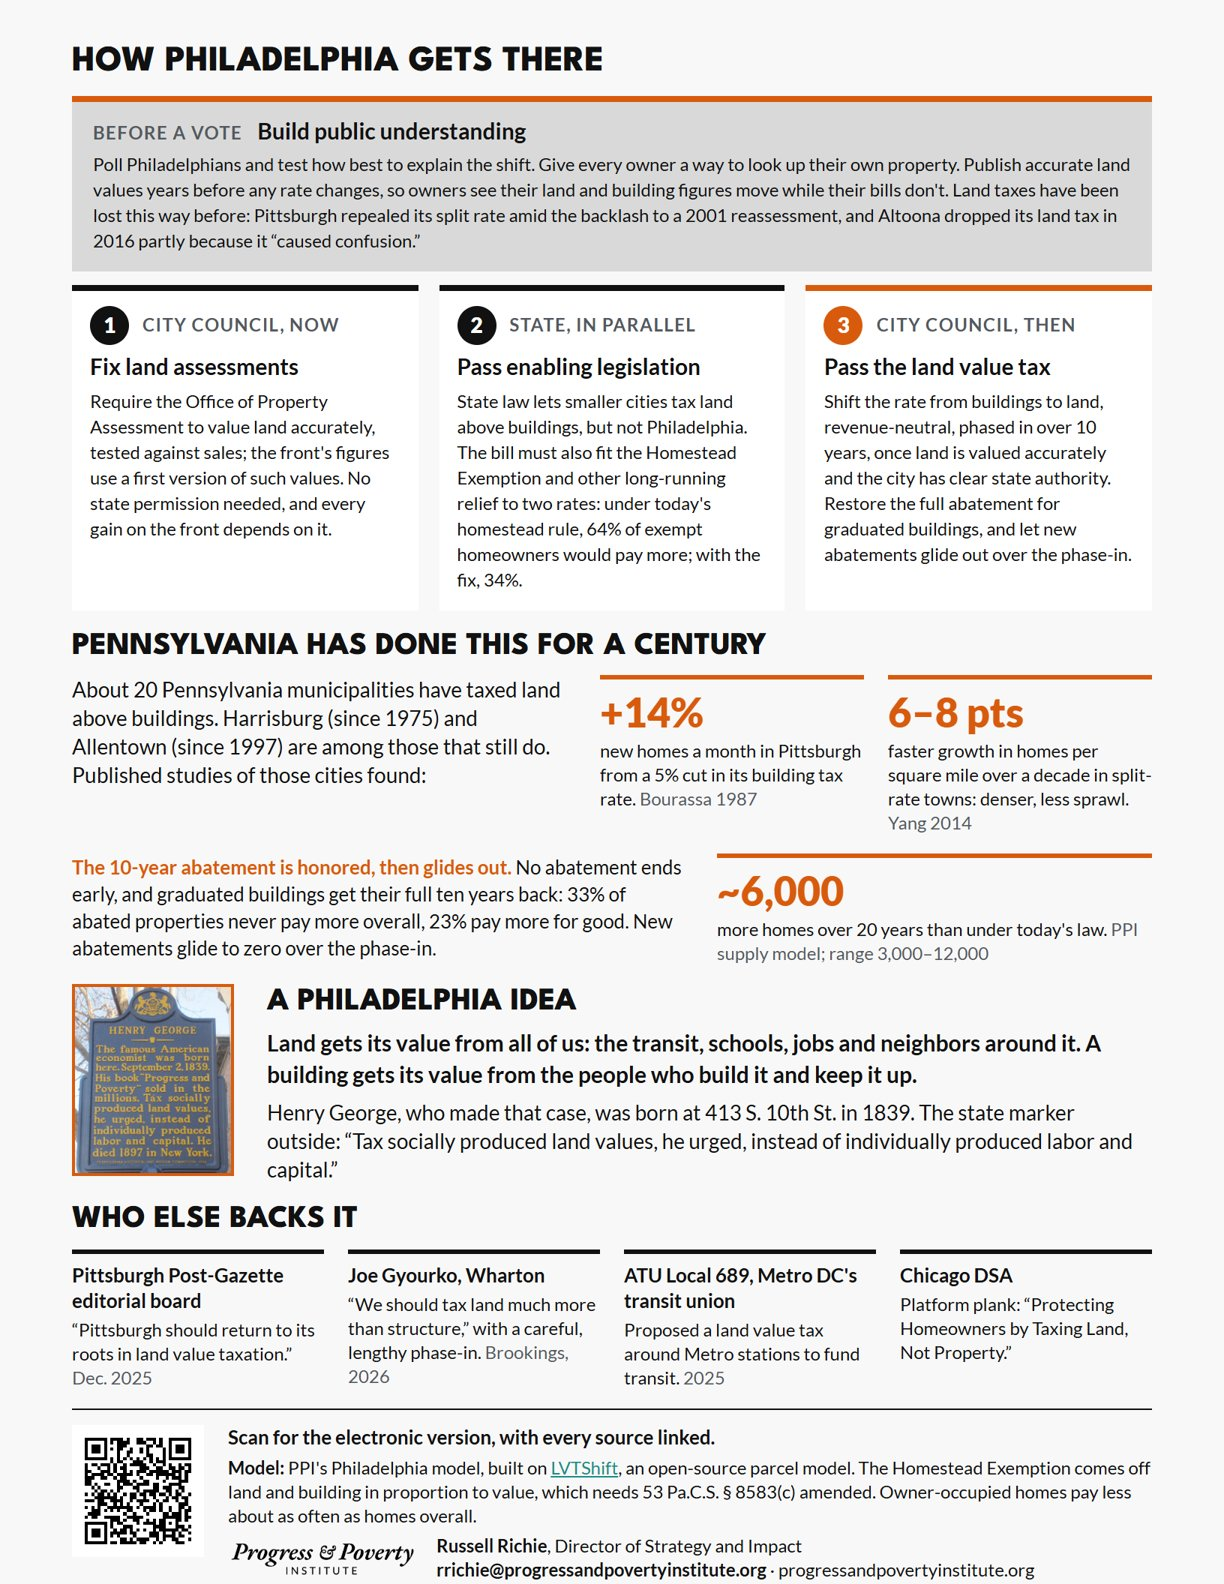
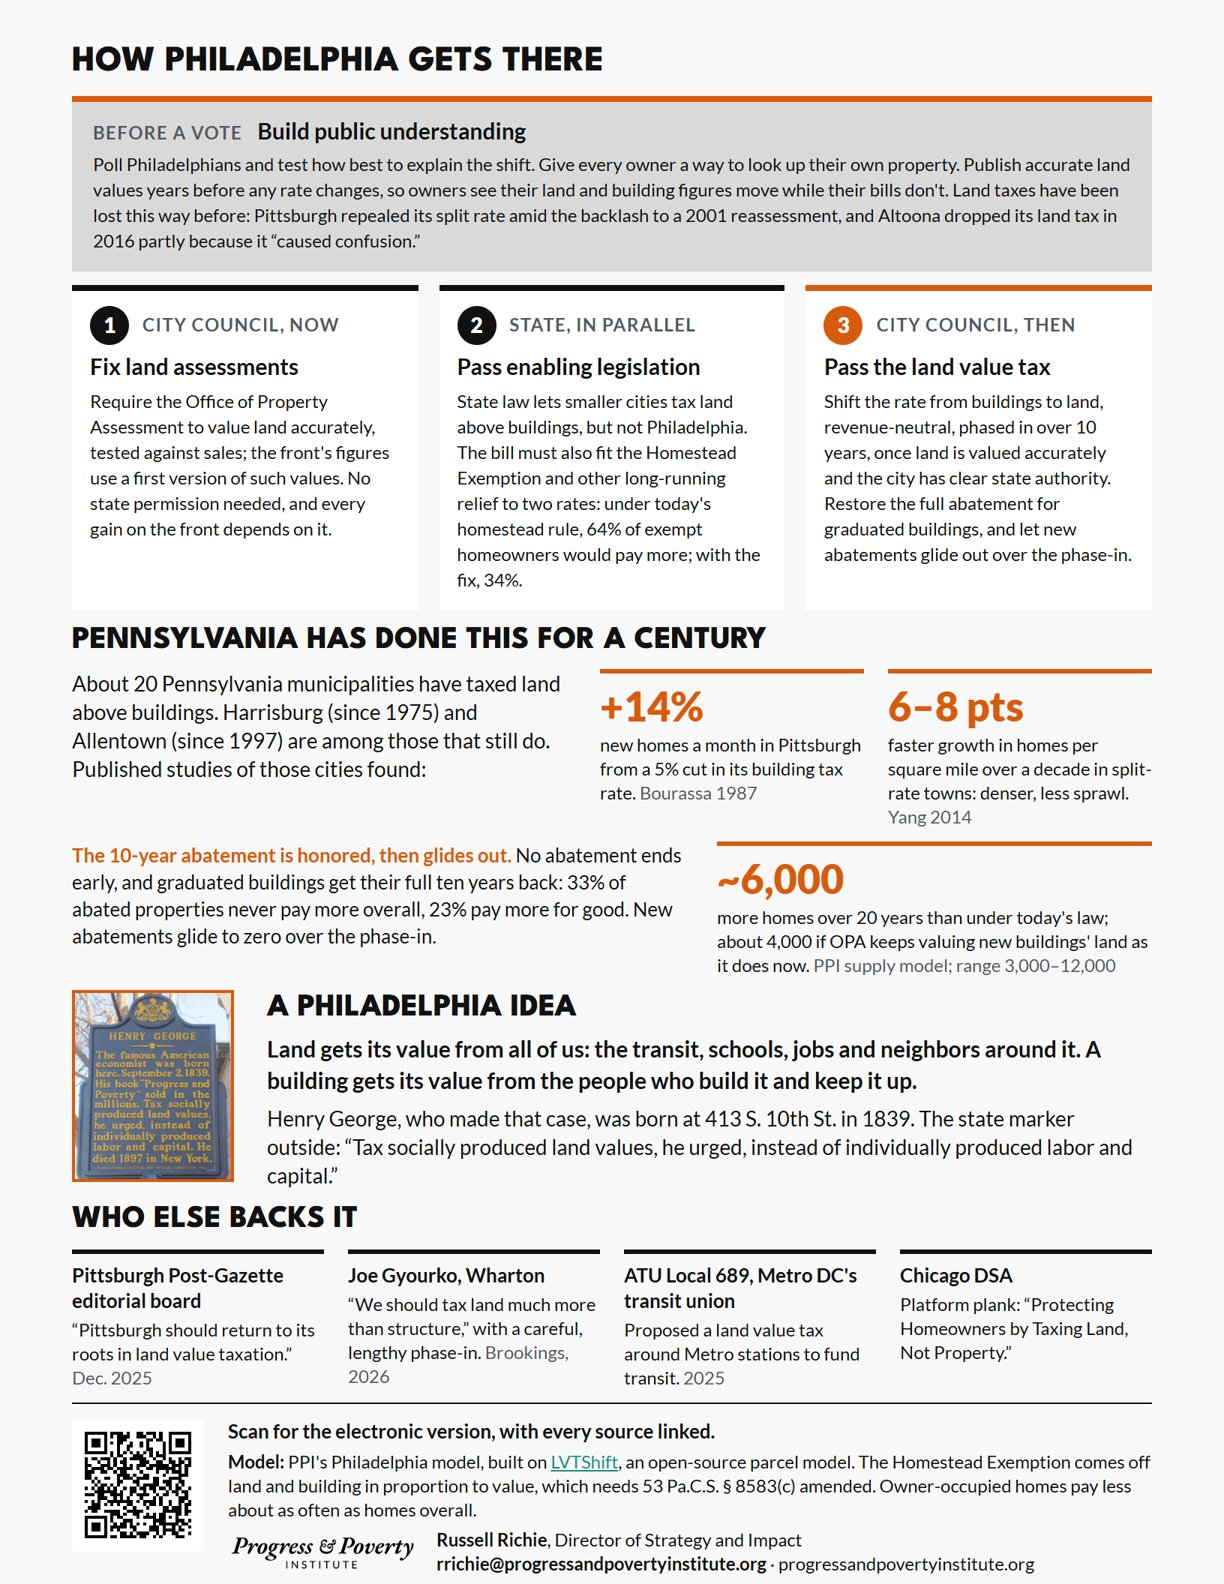
Publish from philly_land_tax_research b9dfd40 (with uncommitted changes)

Changed region(s): [[0.0621, 0.3712, 0.9314, 0.7734], [0.1863, 0.8971, 0.9314, 1.0], [0.0621, 0.8971, 0.1552, 0.9899]]

diff --git a/index.html b/index.html
@@ -5,7 +5,7 @@
 <meta name="robots" content="noindex">
 <meta name="viewport" content="width=device-width, initial-scale=1, viewport-fit=cover">
 <title>Tax Land More, Tax Homes Less</title>
-<meta name="description" content="The electronic version of the Progress and Poverty Institute's Philadelphia land value tax briefing, with every source linked.">
+<meta name="description" content="The Progress and Poverty Institute's Philadelphia land value tax briefing, with every source linked.">
 <link rel="icon" href="img/icon-32.png" sizes="32x32" type="image/png">
 <link rel="icon" href="img/icon.svg" type="image/svg+xml">
 <link rel="apple-touch-icon" href="img/apple-touch-icon.png">
@@ -204,7 +204,7 @@ footer .wrap{display:flex;flex-wrap:wrap;gap:12px 28px;align-items:center;justif
         <span class="eyebrow">A Philadelphia policy briefing</span>
       </div>
       <h1><span>Tax land more.</span><span class="hot">Tax homes less.</span></h1>
-      <p class="dek">Same revenue. Lower rate on buildings, higher on land. This is the electronic version of the printed briefing, with a source linked beside every claim.</p>
+      <p class="dek">Same revenue. Lower rate on buildings, higher on land.</p>
       <div class="actions">
         <a class="btn primary" href="philadelphia-land-value-tax-briefing.pdf">Printed briefing (PDF)</a>
         <a class="btn" href="#method">How the numbers are made</a>
@@ -337,15 +337,18 @@ footer .wrap{display:flex;flex-wrap:wrap;gap:12px 28px;align-items:center;justif
       <div class="study"><b>6–8 points</b><span>faster growth in housing units per square mile over a decade in towns with two rates: denser, less sprawl.<sup class="ref"><a href="#src-21" id="ref-yang-21">21</a></sup></span></div>
     </div>
   </div>
+  <div class="prose">
+    <p class="note">Those are the published effects, in the cities and years they were measured. PPI's own projection for this plan, below, is deliberately more conservative: applied to this plan's 44% cut in the building rate, the Pittsburgh elasticity would imply several times the homes the model projects.</p>
+  </div>
 </section>
 
 <section id="abatement">
   <h2>The 10-year abatement is honored, then glides out</h2>
   <div class="prose">
     <p>Philadelphia's 10-year abatements take new construction and improvements off the tax bill for a decade.<sup class="ref"><a href="#src-22" id="ref-abatement-22">22</a></sup> Under this plan no abatement ends early, and buildings now on the graduated schedule, whose exempt share falls 10 points a year, get the full 10-year abatement back. While an abatement runs, its owner pays more on the land. Of the 20,233 abated properties, 33% never pay more overall, including 80% of those on the graduated schedule (44% without the restoration); 44% pay more for a time and are made whole after the abatement ends; 23% pay more for good. Once it ends, 76% pay less than under today's tax, a median $780 a year. The last abatement expires in 2036.<sup class="ref"><a href="#src-1" id="ref-numbers-1">1</a></sup></p>
-    <p>New buildings get the glide. A project starting in 2027, the reform's first year, is fully abated for ten years; each later start year is exempt 10 points less, and projects starting after 2036, when the phase-in is complete, get none, only the lower building rate. The model projects about <strong>6,000 more homes over 20 years</strong> than under today's law, about 300 a year, a tenth more than the 2,700 the city now adds each year, and about 1,400 more than ending new abatements when the phase-in starts.<sup class="ref"><a href="#src-1" id="ref-numbers-1">1</a></sup></p>
+    <p>New buildings get the glide. A project starting in 2027, the reform's first year, is fully abated for ten years; each later start year is exempt 10 points less, and projects starting after 2036, when the phase-in is complete, get none, only the lower building rate. The model projects about <strong>6,000 more homes over 20 years</strong> than under today's law, about 300 a year, a tenth more than the 2,700 the city now adds each year, and about 1,400 more than ending new abatements when the phase-in starts.<sup class="ref"><a href="#src-1" id="ref-numbers-1">1</a></sup> That figure values the land under a new building as land, as the plan does; OPA today sets it at a fifth of what is built. With OPA's rule kept, the model projects about 4,000, so about 34% of the figure is the change in how new buildings' land is assessed.<sup class="ref"><a href="#src-1" id="ref-numbers-1">1</a></sup></p>
     <p>Everyone else pays for the abatements, as they do today. The glide's abatements shift about $129 million onto other bills through 2045, less than keeping today's graduated abatement alongside the phase-in would ($197 million). Restoring the graduated buildings' full abatement shifts $29 million more through 2035, raising other bills by at most 0.2%.<sup class="ref"><a href="#src-1" id="ref-numbers-1">1</a></sup></p>
-    <p class="note">This is the reform phased in over 10 years from tax year 2027. The homes are a projection. Their direction holds in every run of the model, but their number rests on how developers discount future taxes and how widely projects' prospects vary: those runs put it between 3,000 and 12,000. Today's law means the graduated abatement for every new project, with building held at the pace of 2023–2025 permits.</p>
+    <p class="note">This is the reform phased in over 10 years from tax year 2027. The homes are a projection. Their direction holds in every run of the model, but their number rests on how developers discount future taxes and how widely projects' prospects vary: those runs put it between 3,000 and 12,000, and the model's full sensitivity runs reach wider than that. Today's law means the graduated abatement for every new project and OPA's land rule on new buildings, with building held at the pace of 2023–2025 permits.</p>
   </div>
 </section>
 
@@ -400,7 +403,7 @@ footer .wrap{display:flex;flex-wrap:wrap;gap:12px 28px;align-items:center;justif
   </div>
   <div class="links">
     <a class="linkcard" href="https://github.com/drussellmrichie/LVTShift"><b>The engine</b><span>LVTShift, the open-source toolkit PPI's model is built on, open to anyone to read and run.</span></a>
-    <a class="linkcard" href="numbers.json"><b>The figures as data</b><span>The file every number here is formatted from, as of 2026-10-30.</span></a>
+    <a class="linkcard" href="numbers.json"><b>The figures as data</b><span>The file every number here is formatted from, as of 2026-11-01.</span></a>
   </div>
 </section>
 
@@ -452,7 +455,7 @@ footer .wrap{display:flex;flex-wrap:wrap;gap:12px 28px;align-items:center;justif
 <footer>
   <div class="wrap">
     <div><strong>Russell Richie</strong>, Director of Strategy and Impact, Progress and Poverty Institute<br><span class="num">rrichie@progressandpovertyinstitute.org</span> · <a href="https://progressandpovertyinstitute.org">progressandpovertyinstitute.org</a></div>
-    <div class="note">Figures as of 2026-10-30.</div>
+    <div class="note">Figures as of 2026-11-01.</div>
   </div>
 </footer>
 </body>
